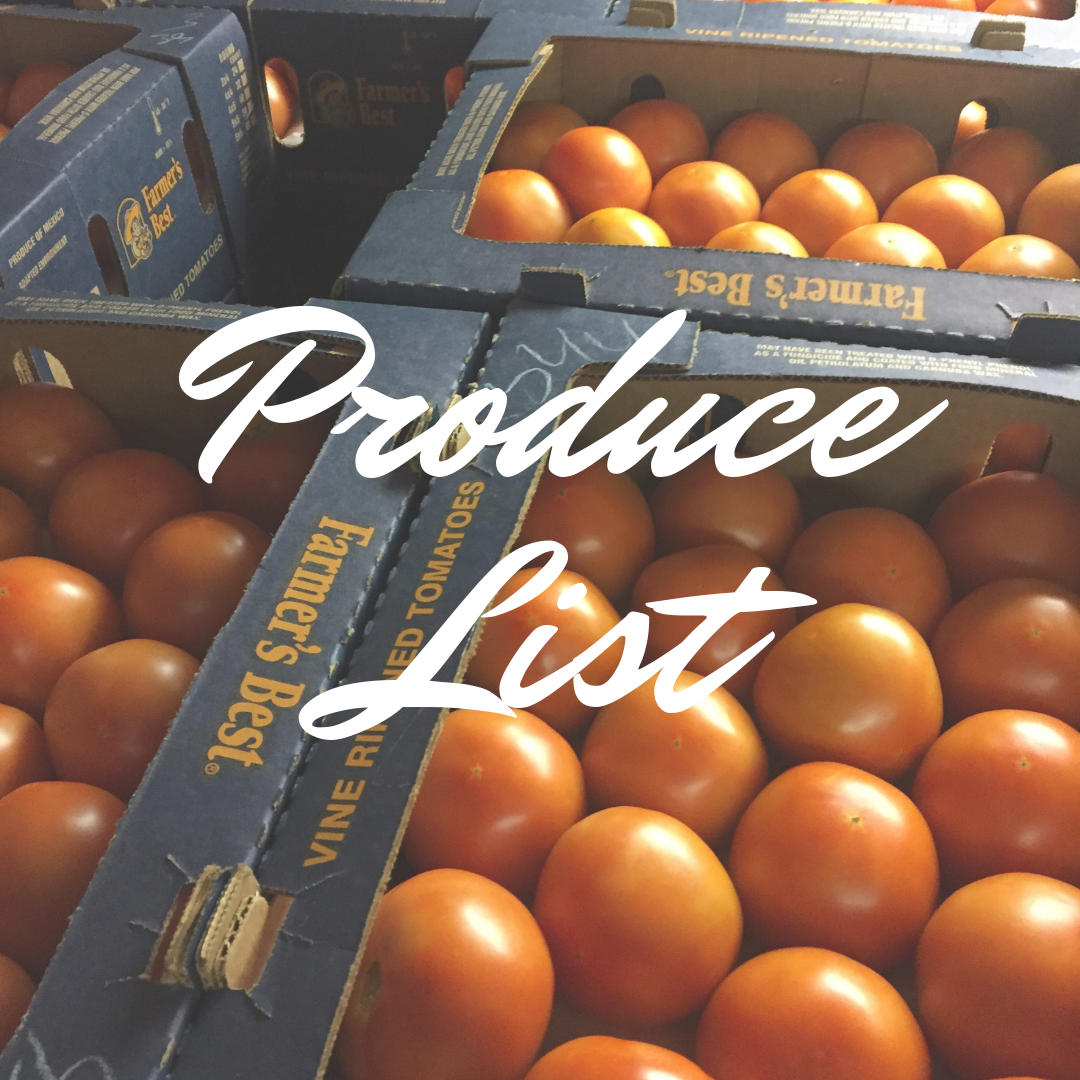
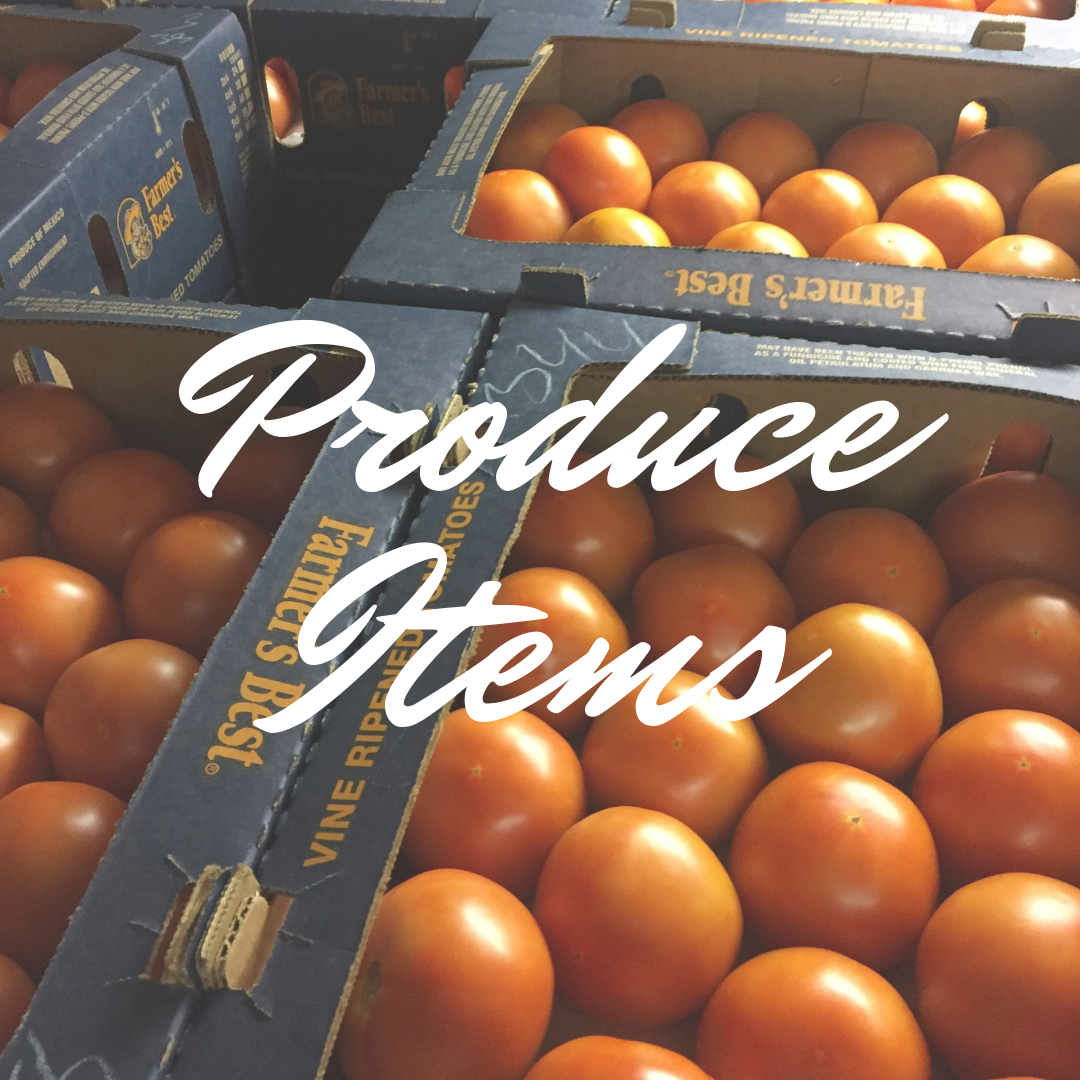
this will add styling to the index page and replace the prep picture with a picture indicating that we are currently hiring

Changed region(s): [[0.1528, 0.275, 0.8861, 0.4583], [0.2444, 0.4889, 0.7639, 0.7028]]

diff --git a/contact.html b/contact.html
@@ -77,7 +77,7 @@
     <div id="border">
       <p><br></p>
     </div>
-    <p class="top-paragraph">Send us an e-mail regarding any questions you may have or suggestions for us to improve your experience. We're always looking for ways to grow and make our customers happier! We also have a mailing list that sends updated price lists and specials flyers every week, so let us know if you'd like to subscribe!</p>
+    <p class="top-paragraph">Call us or send an e-mail if you have any questions/suggestions for us. We're always looking for ways to grow and make our customers happier with our service! We also have a mailing list that sends updated price lists and specials flyers every week, so let us know if you'd like to subscribe!</p>
     <div class="row">
       <div class="col-sm-6 top-contact-info">
         <h3>Contact Information:</h3>
@@ -116,27 +116,33 @@
     <div class="row below-contact">
       <div class="col-sm-6 credit-application">
         <h3>Need a Credit Application?</h3>
-        <p>Download the form below and e-mail it to <a href="mailto:kenia@rinellaproduce.com">kenia@rinellaproduce.com</a> and we'll see if we can get you started on terms!</p>
+        <p>If you have ordered from us before and would like to start terms with us, please download the form below and e-mail it to <a href="mailto:kenia@rinellaproduce.com">kenia@rinellaproduce.com</a>. Please give us time to process your application, and we will contact you as soon as we have reviewed all of the necessary information.</p>
         <div class="credit-app-download">
           <a href="documents/credit-application.pdf"><img class="credit-app-picture" src="pictures/credit-app-pic.png" alt="A picture of our credit application"></a>
         </div>
       </div>
-      <div class="col-sm-6 order-block">
-        <h3>Need to place an order? Check out our <a href="products.html">current prices</a> and give us a call!</a></h3>
-          <div class="order-download">
-            <a href="products.html"><img class="order-picture" src="pictures/chris-phone-pic.JPG" alt="Chris Knight on the phone with a customer"></a>
-          </div>
+      <div class="col-sm-6 hiring-block">
+        <h3>We're hiring!</h3>
+        <p>Current positions available:</p>
+          <ul>
+            <li><a href="https://www.indeed.com/cmp/Rinella-Produce/jobs/Produce-Delivery-Driver-7363810b76c08f29?q=rinella+produce&vjs=3">Delivery Driver (Full/Part-Time)</a></li>
+            <li><a href="https://www.indeed.com/cmp/Rinella-Produce/jobs/Account-Payable-Payroll-Manager-8ef74f1627f7e0f4?q=rinella+produce&vjs=3">Accounts Payable & Payroll Manager</a></li>
+          </ul>
+        <p>If either of those interest you, please e-mail your resume and a completed application (downloadable PDF below) to <a href="mailto:rachel@rinellaproduce.com">rachel@rinellaproduce.com</a>. You may also come to our warehouse to fill out the application in person, and you may even get a chance to meet with us on the spot!</p>
+        <div class="hiring-pic-block">
+          <a href="#"><img class="hiring-picture" src="pictures/hiring-drivers.png" alt="We're hiring drivers!"></a>
         </div>
+
+      </div>
+
       </div>
       <div class="row">
-        <div class="col-sm-6 hiring-block">
-          <h3>We're hiring!</h3>
-          <p>If you're looking for a job with us, check out our <a href="indeed.com">indeed</a> page! We're currently looking for Full/Part-Time drivers and qualified salespeople. If either of those interest you, please e-mail your resume and a completed application (downloadable PDF below) to <a href="mailto:rachel@rinellaproduce.com">rachel@rinellaproduce.com</a>. You may also come to our warehouse to fill out the application in person, and you may even get a chance to meet with us on the spot!</p>
-          <div class="hiring-pic-block">
-            <a href="#"><img class="hiring-picture" src="pictures/hiring-drivers.png" alt="We're hiring drivers!"></a>
+        <div class="col-sm-6 order-block">
+          <h3>Need to place an order? Check out our <a href="products.html">current prices</a> and give us a call!</a></h3>
+            <div class="order-download">
+              <a href="products.html"><img class="order-picture" src="pictures/chris-phone-pic.JPG" alt="Chris Knight on the phone with a customer"></a>
+            </div>
           </div>
-
-        </div>
         <div class="col-md-6 mailing-list-block">
           <h3>Subscribe to our mailing list!</h3>
           <p>We send out updated prices and specials flyers every week. If you'd like to be included, just fill out the form below!</p>
@@ -174,6 +180,7 @@
           <h5><a href="#">About Us</a></h5>
             <p><a href="#">Our Company</a></p>
             <p><a href="#">Departments</a></p>
+            <br>
           <h5><a href="#">Products & Specials</a></h5>
             <p><a href="#">Product List</a></p>
             <p><a href="#">Specials & Flyers</a></p>
@@ -182,6 +189,7 @@
           <h5><a href="#">Deliveries & Ordering</a></h5>
             <p><a href="#">Locations & Delivery Schedule</a></p>
             <p><a href="#">Walk-in Schedule</a></p>
+            <br>
           <h5><a href="#">Contact Us</a></h5>
             <p><a href="#">Contact Info</a></p>
             <p><a href="#">Employment Opportunities</a></p>

diff --git a/css/styles-index.css b/css/styles-index.css
@@ -174,6 +174,7 @@ ul li i {
 .page-content {
   flex-wrap: wrap;
   font-size: 16px;
+  font-family: 'Barlow', sans-serif;
 }
 
 #content-header {
@@ -182,6 +183,14 @@ ul li i {
   margin-top: 48px;
   text-align: left;
   font-family: 'Passion One', cursive;
+}
+
+#border-top {
+  display: block;
+  width: 80%;
+  margin: auto;
+  border-top: 0.4px solid black;
+  margin-top: 24px;
 }
 
 #block-quote {
@@ -195,13 +204,13 @@ ul li i {
 }
 
 #yelp-author {
-  font-size: 14;
+  font-size: 20px;
   font-weight: bold;
-  font-family: 'Barlow', sans-serif;;
+  font-family: 'Passion One', cursive;
 }
 
 #quote {
-  font-size: 20px;
+  font-size: 18px;
   font-family: 'Oleo Script', cursive;
   text-align: left;
 }
@@ -223,6 +232,14 @@ ul li i {
   z-index: 9998;
 }
 
+#border {
+  display: block;
+  width: 80%;
+  margin: auto;
+  border-top: 0.4px solid black;
+  margin-top: 24px;
+}
+
 .col-sm-4 img {
   margin: auto;
   margin-left: 1%;
@@ -241,33 +258,51 @@ ul li i {
 }
 
 .col-sm-4 p {
-  font-size: 15px;
+  font-size: 16px;
+  font-family: 'Barlow', sans-serif;
   text-align: center;
   margin-top: -4px;
 }
 
-#prep-items {
-  margin-top: 24px;
+#hiring-object {
+  margin-top: -12px;
+  display: block;
+  margin: auto;
+}
+
+#were-hiring {
+  margin-top: 12px;
   margin-left: 8%;
   display: block;
+  margin: auto;
   width: 90%;
   border-radius: 4px;
 }
 
 #public-image {
   display: block;
+  margin: auto;
   width: 100%;
   border-radius: 4px;
   margin-left: 0;
 }
 
 #walk-in-object {
+  display: block;
+  margin: auto;
+  margin-top: -12px;
+}
+
+#mailing-object {
+  display: block;
+  margin: auto;
   margin-top: -12px;
 }
 
 #mailing-list {
-  margin-top: 24px;
+  margin-top: 12px;
   display: block;
+  margin: auto;
   width: 90%;
   border-radius: 4px;
 }
@@ -277,12 +312,12 @@ ul li i {
   text-decoration: none;
 }
 
-#prep-items:hover {
+#hiring-object:hover {
   opacity: 0.4;
   text-decoration: none;
 }
 
-#mailing-list:hover {
+#mailing-object:hover {
   opacity: 0.4;
   text-decoration: none;
 }
@@ -290,6 +325,14 @@ ul li i {
 #walk-in-object:hover {
   opacity: 0.4;
   text-decoration: none;
+}
+
+#border-above-map {
+  display: block;
+  width: 80%;
+  margin: auto;
+  border-top: 0.4px solid black;
+  margin-top: 48px;
 }
 
 .row col-sm-6 {
@@ -303,7 +346,7 @@ ul li i {
   width: 45%;
   margin-left: 3%;
   margin-right: 1%;
-  margin-top: 2%;
+  margin-top: 24px;;
 }
 
 .headers-maps-insta {

diff --git a/index.html b/index.html
@@ -76,7 +76,9 @@
             <p><i class="fa fa-phone-square"></i> <a href="tel:5032381360">(503)238-1360</a></p>
           </div>
         </div>
-        <br>
+        <div id="border-top">
+          <p><br></p>
+        </div>
         <p>Welcome to Rinella Produce, a food distribution company. We carry quality produce, canned goods, frozen goods, and much more at wholesale prices. While we deliver daily to restaurants, businesses and retirement homes, individuals are more than welcome to come visit our warehouse and hand-select their own products at discounted prices. Any order &mdash; big or small &mdash; can be called in and made ready for pick-up upon arrival.</p>
         <div class="mango-object">
           <a href="#">
@@ -103,8 +105,10 @@
       </div>
       <a class="picture-links" href="products.html">
         <div class="row" id="content-image-boxes">
-          <div class="col-sm-4">
-            <img  id="prep-items" src="https://66.media.tumblr.com/7827b7793ada70903279a48623a4d1ca/tumblr_pgv7m3dKwR1s72wwgo1_1280.png" alt="We prepare produce at the customer's request">
+          <div class="col-sm-4" id="hiring-object">
+            <h6 class="hiring-text">We're Hiring!</h6>
+            <p class="hiring-text">Check out our current openings if you're interested in working for Rinella Produce!</p>
+            <img  id="were-hiring" src="pictures/were-hiring.png" alt="We're hiring!">
           </div>
       </a>
       <a class="picture-links" href="deliveries.html">
@@ -115,10 +119,15 @@
         </div>
       </a>
       <a class="picture-links" href="contact.html">
-        <div class="col-sm-4">
+        <div class="col-sm-4" id="mailing-object">
+          <h6>Subscribe to our mailing list!</h6>
+          <p>Each week we send updated prices and specials. If you'd like to be added to our list, just click below!</p>
           <img id="mailing-list" src="https://66.media.tumblr.com/7c76d9d51d8a1c87ab77f3a12c3513de/tumblr_pgv7y1mwtg1s72wwgo1_1280.png" alt="Join our mailing list">
         </div>
       </a>
+      </div>
+      <div id="border-above-map">
+        <p><br></p>
       </div>
     </div>
       <div class="row">

diff --git a/css/styles-products.css b/css/styles-products.css
@@ -205,7 +205,7 @@ body {
 .produce-list {
   width: 30%;
   display: block;
-  margin-left: 24px;
+  margin-left: 40px;
 }
 
 .produce-list h6 {
@@ -225,7 +225,7 @@ body {
 .canned-goods-list {
   width: 30%;
   display: block;
-  margin-left: 24px;
+  margin-left: 12px;
 }
 
 .canned-goods-list h6 {
@@ -245,7 +245,7 @@ body {
 .frozen-list {
   width: 30%;
   display: block;
-  margin-left: 24px;
+  margin-left: 12px;
 }
 
 .frozen-list h6 {
@@ -273,7 +273,7 @@ body {
 .price-block {
   width: 40%;
   display: block;
-  margin-left: 48px;
+  margin-left: 96px;
 }
 
 .price-block h3 {
@@ -350,7 +350,7 @@ body {
   display: block;
   width: 30%;
   margin: auto;
-  margin-left: 40px;
+  margin-left: 56px;
 }
 
 #flyer-one-pic {
@@ -365,7 +365,6 @@ body {
   display: block;
   width: 30%;
   margin: auto;
-  margin-left: 12px;
 }
 
 #flyer-two-pic {
@@ -380,7 +379,6 @@ body {
   display: block;
   width: 30%;
   margin: auto;
-  margin-left: 12px;
 }
 
 #flyer-three-pic {

diff --git a/js/scripts.js b/js/scripts.js
@@ -43,14 +43,14 @@ $(window).resize(function(){
 });
 
 window.onload=function() {
-    $("#prep-items").slideUp(3300);
+    $("#hiring-object").slideUp(3300);
     $("#walk-in-object").slideUp(3600);
-    $("#mailing-list").slideUp(3900);
+    $("#mailing-object").slideUp(3900);
     // $(".opening-reveal").show();
     $(".opening-slide-up").slideDown(4600);
-    $("#prep-items").slideDown();
+    $("#hiring-object").slideDown();
     $("#walk-in-object").slideDown();
-    $("#mailing-list").slideDown();
+    $("#mailing-object").slideDown();
     // $("#.opening-reveal").show().slideDown(4000);
     // $(".opening-slide-up").show();
 

diff --git a/css/styles-contact.css b/css/styles-contact.css
@@ -232,7 +232,7 @@ body {
 .credit-application {
   display: block;
   width: 40%;
-  margin-left: 72px;
+  margin-left: 96px;
   margin-top: 24px;
 }
 
@@ -259,7 +259,7 @@ body {
 .order-block {
   display: block;
   width: 40%;
-  margin-left: 72px;
+  margin-left: 96px;
   margin-top: 24px;
 }
 
@@ -314,7 +314,7 @@ body {
   width: 75%;
   display: block;
   border-radius: 6px;
-  margin-top: 24px;
+  margin-top: 48px;
   margin-left: 24px;
 }
 

diff --git a/products.html b/products.html
@@ -86,7 +86,7 @@
     </div>
       <div class="row">
         <div class="col-sm-4 produce-list">
-            <h6>Produce List</h6>
+            <h6>Produce Items</h6>
             <a href="#"><img class="pics-hover" id="produce-pic" src="pictures/produce-list.png" alt="Picture of tomatoes, links to our produce list"></a>
         </div>
         <div class="col-sm-4 canned-goods-list">
